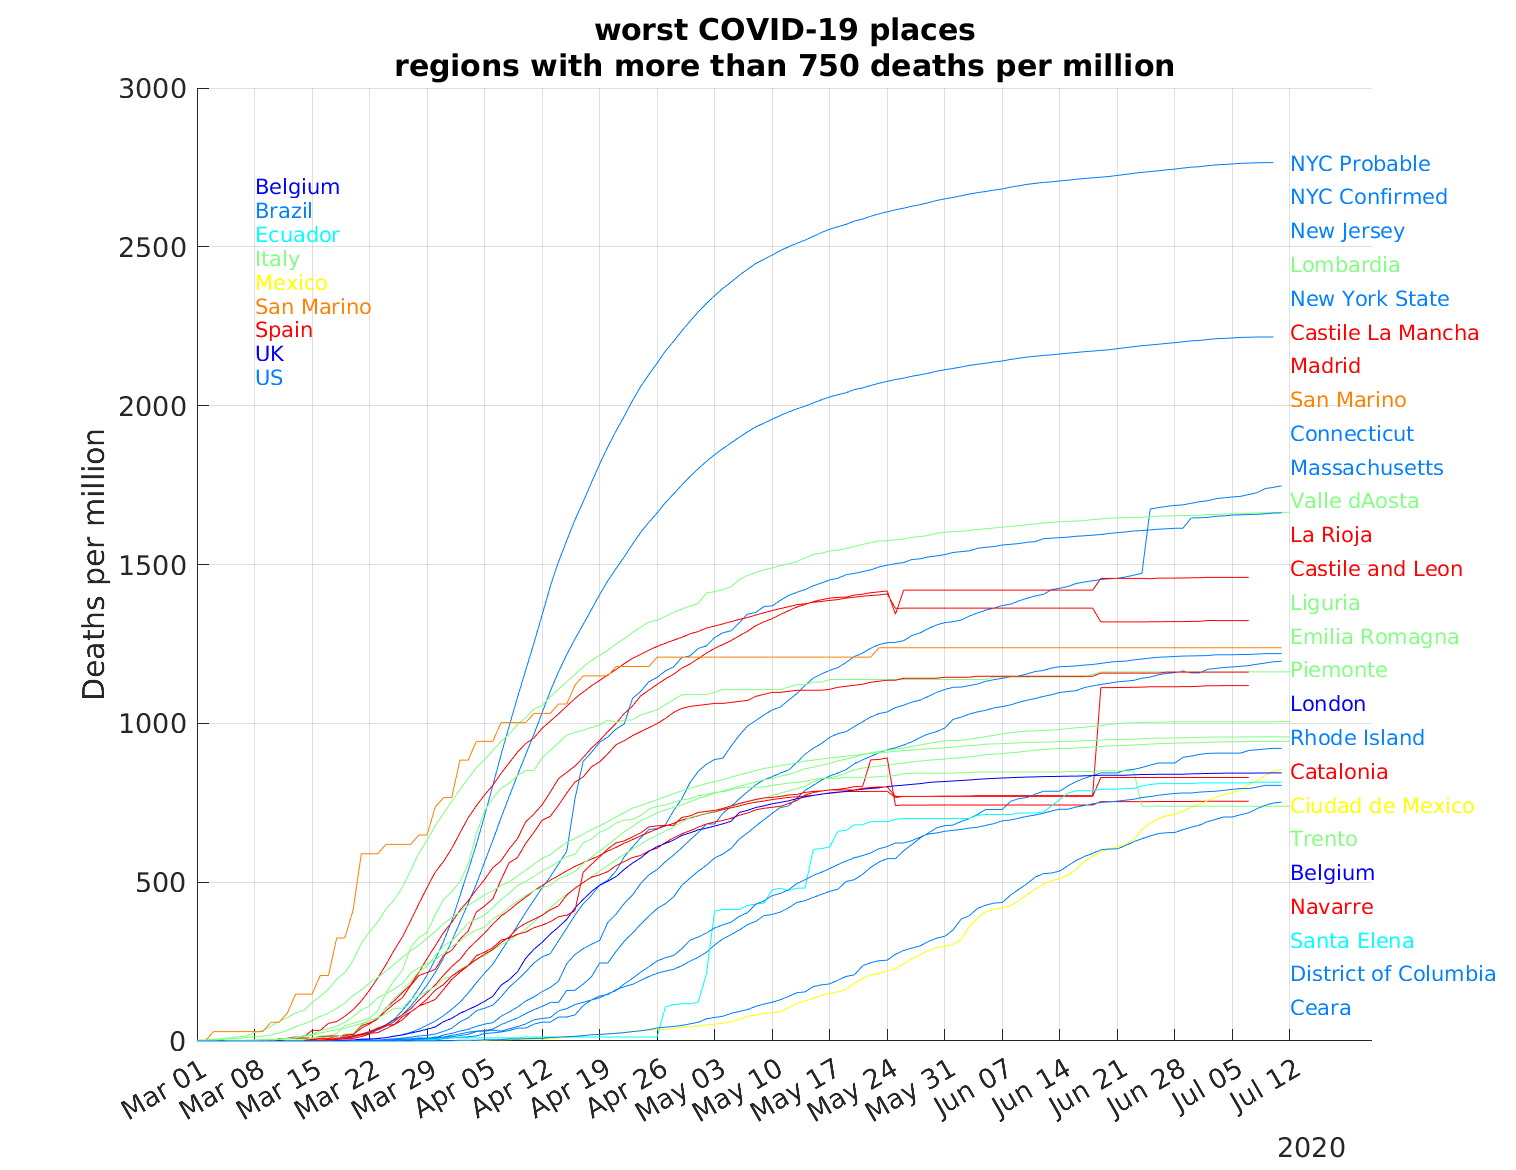
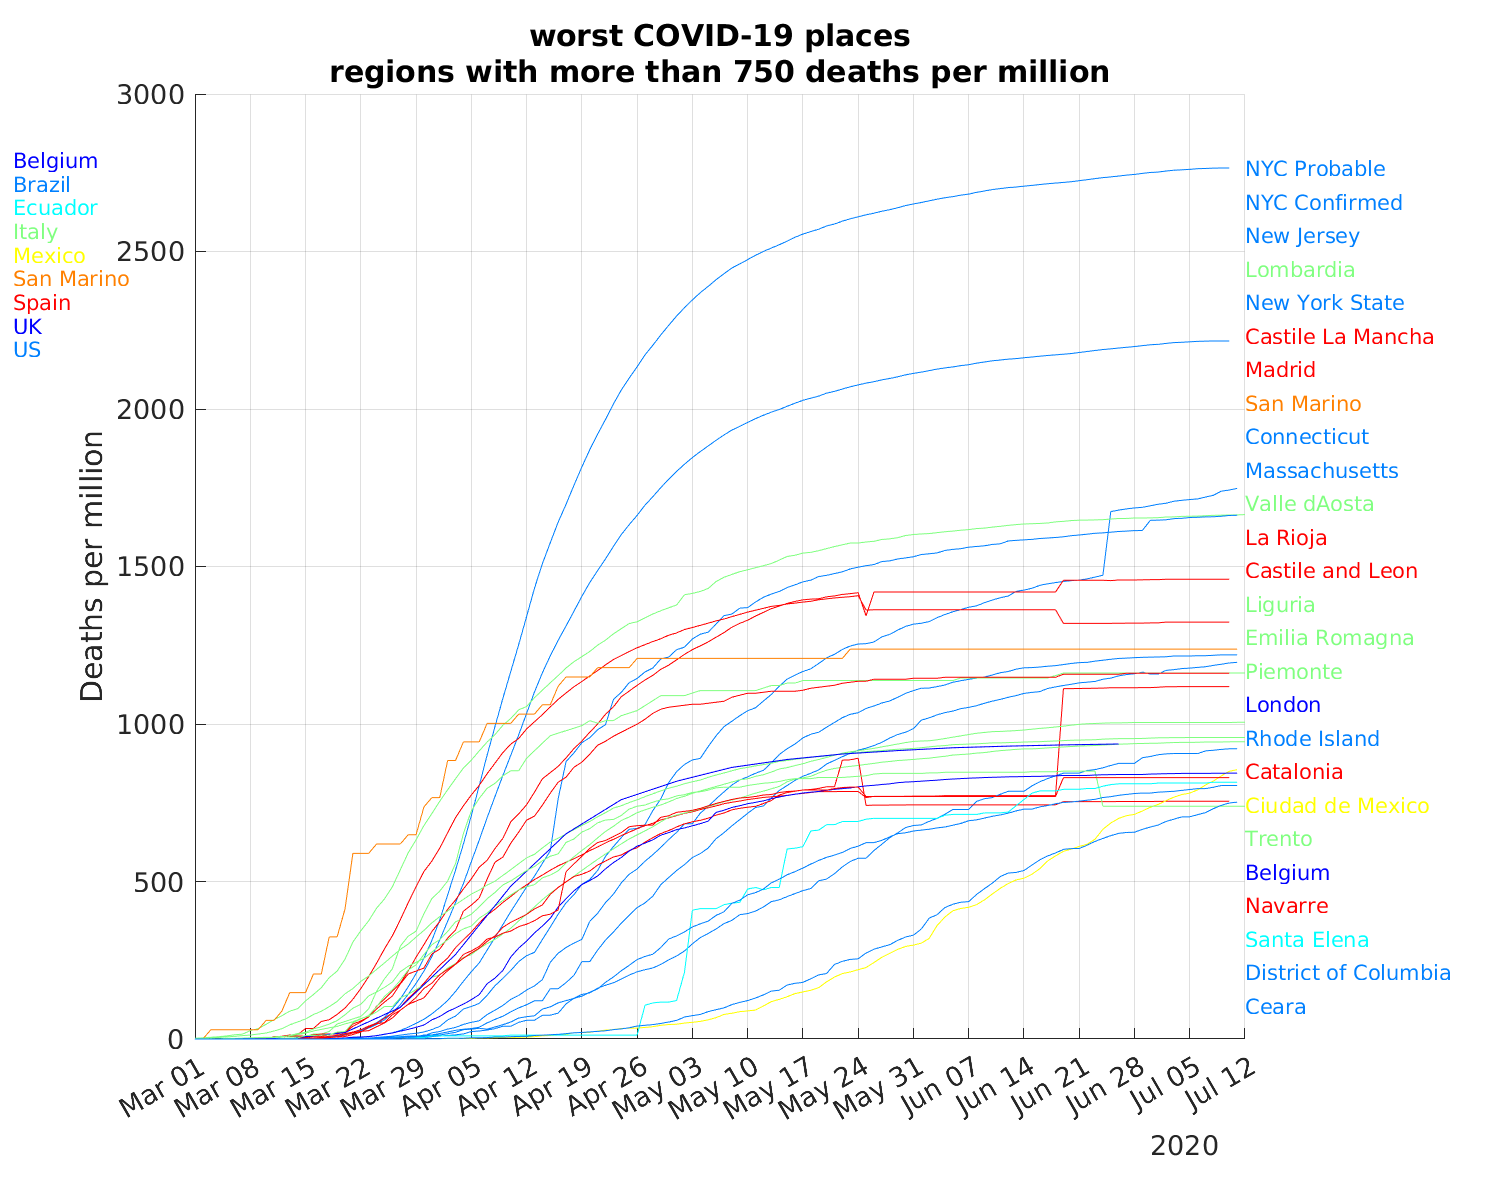
regions colors changes

diff --git a/code/covid_regions.m b/code/covid_regions.m
@@ -124,7 +124,7 @@ if ~isempty(ignore)
     Date(ignore:end) = [];
 end
 nanwritetable(list,'data/regions.csv');
-%% sort and plot
+%% sort 
 
 listDate = datetime(strrep(list.Properties.VariableNames(4:end),'_','-'),'InputFormat','MMM-dd-yyyy');
 y = list{:,4:end}'./list.Population'*10^6;
@@ -134,17 +134,21 @@ loc = list{order,2};
 loc{ismember(loc,'New York')} = 'New York State';
 iXtick = fliplr(length(listDate):-7:1);
 nLines = find(nanmax(y) > threshold,1,'last');
-
+%% plot
 fig10 = figure('units', 'normalized', 'position',[0.1,0.1,0.5,0.7]);
-h = plot(listDate,y(:,1:nLines));
+for ii = 1:nLines
+    notNan = ~isnan(y(:,ii));
+    h(ii) = plot(listDate(notNan),y(notNan,ii));
+    hold on
+end
 xlim(listDate([40,end]))
 yt = max(max(y)):-max(max(y))/nLines:0;
 grid on
 box off
 title({'worst COVID-19 places',['regions with more than ',num2str(threshold),' deaths per million']})
 ylabel('Deaths per million')
-set(gca,'fontsize',13,'XTick',listDate(iXtick))
-set(gcf,'Color',[0.85 0.85 0.85])
+set(gca,'fontsize',13,'XTick',listDate(iXtick),'position',[0.13 0.12 0.7 0.8])
+set(gcf,'Color',[0.65 0.65 0.65])
 xtickangle(30)
 % col = reshape([h(1:7).Color],3,7)';
 col = jet(7);
@@ -158,7 +162,7 @@ for ii = 1:nLines
     text(listDate(end),yt(ii),loc{ii},'color',h(ii).Color);
 end
 for ic = 1:length(countryU)
-    text(listDate(47),yt(1)-75*ic,countryU{ic},'color',col(colorIndex(ic),:))
+    text(listDate(17),100+yt(1)-75*ic,countryU{ic},'color',col(colorIndex(ic),:))
 end
-set(gcf,'Color',[0.85 0.85 0.85],'position',[0.05 0.05 0.9 0.8])
+%% save
 saveas(fig10,'docs/worst_region.png')
